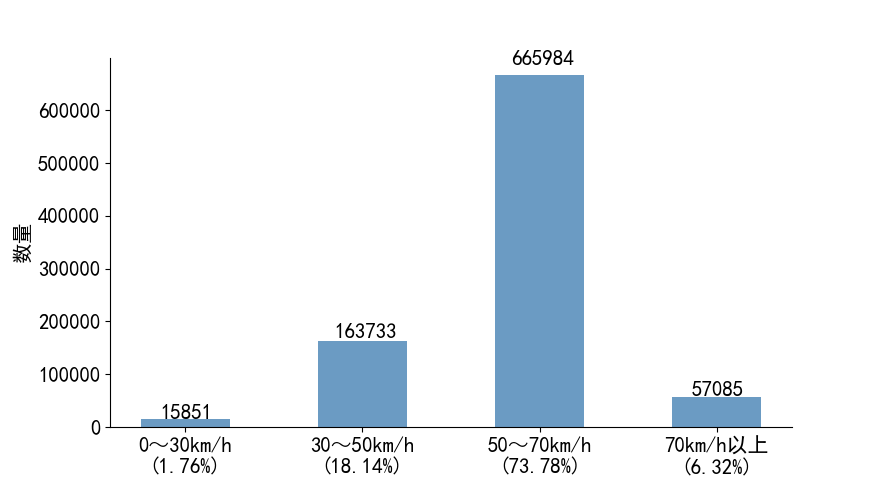
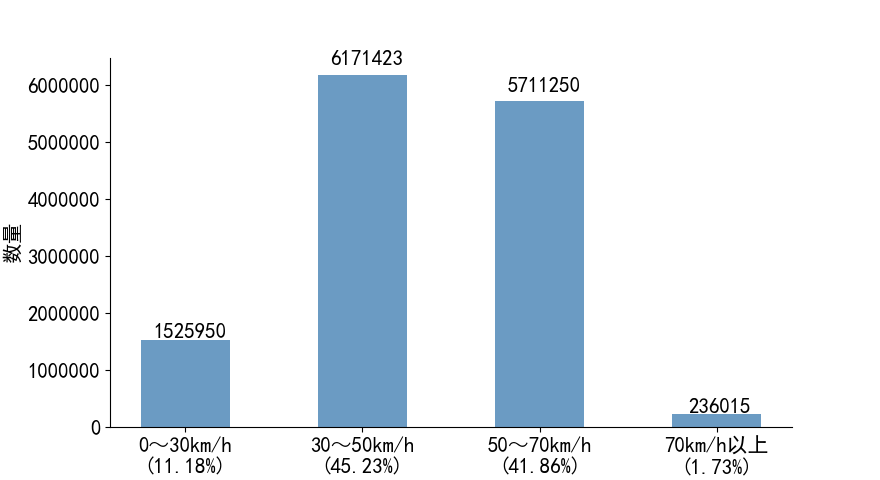
upgrading data

diff --git a/PythonApplication/PythonApplication.py b/PythonApplication/PythonApplication.py
@@ -99,13 +99,13 @@ def plotItem(plt,itemChosen):
     #不同小时平均车速
     #不同时间>40t车辆数
     y_dataList=[
-    [896512,6057,72,12],
-    [190721,262277,244212,205443],
-    [15851,163733,665984,57085],
-    [102338,161864,186335,164279,106144,91623,90070],
-    [14320,6009,6976,59927,125594,109338,103290,128203,142634,104783,63927,37652],
-    [60.5,60.9,58.8,57.3,56.0,55.8,57.4,55.2,54.2,54.3,55.7,58.3],
-    [5,6,6,0,1,1,1,5,3,2,6,11]
+    [13482450,149080,11391,1717],
+    [3052526,3958354,3625292,3008466],
+    [1525950,6171423,5711250,236015],
+    [518094,572499,572126,557727,558882,509893,468823],
+    [368028,200179,179147,984252,1630541,1601930,1467507,1718669,1803411,1557823,1291456,841695],
+    [58.7,60.3,59.2,49.4,41.5,45.1,49.3,44.0,41.3,42.1,47.6,52.9],
+    [141,102,64,3,6,11,15,13,14,27,110,161]
     ]
 
     ## 包含每个柱子对应值的序列
